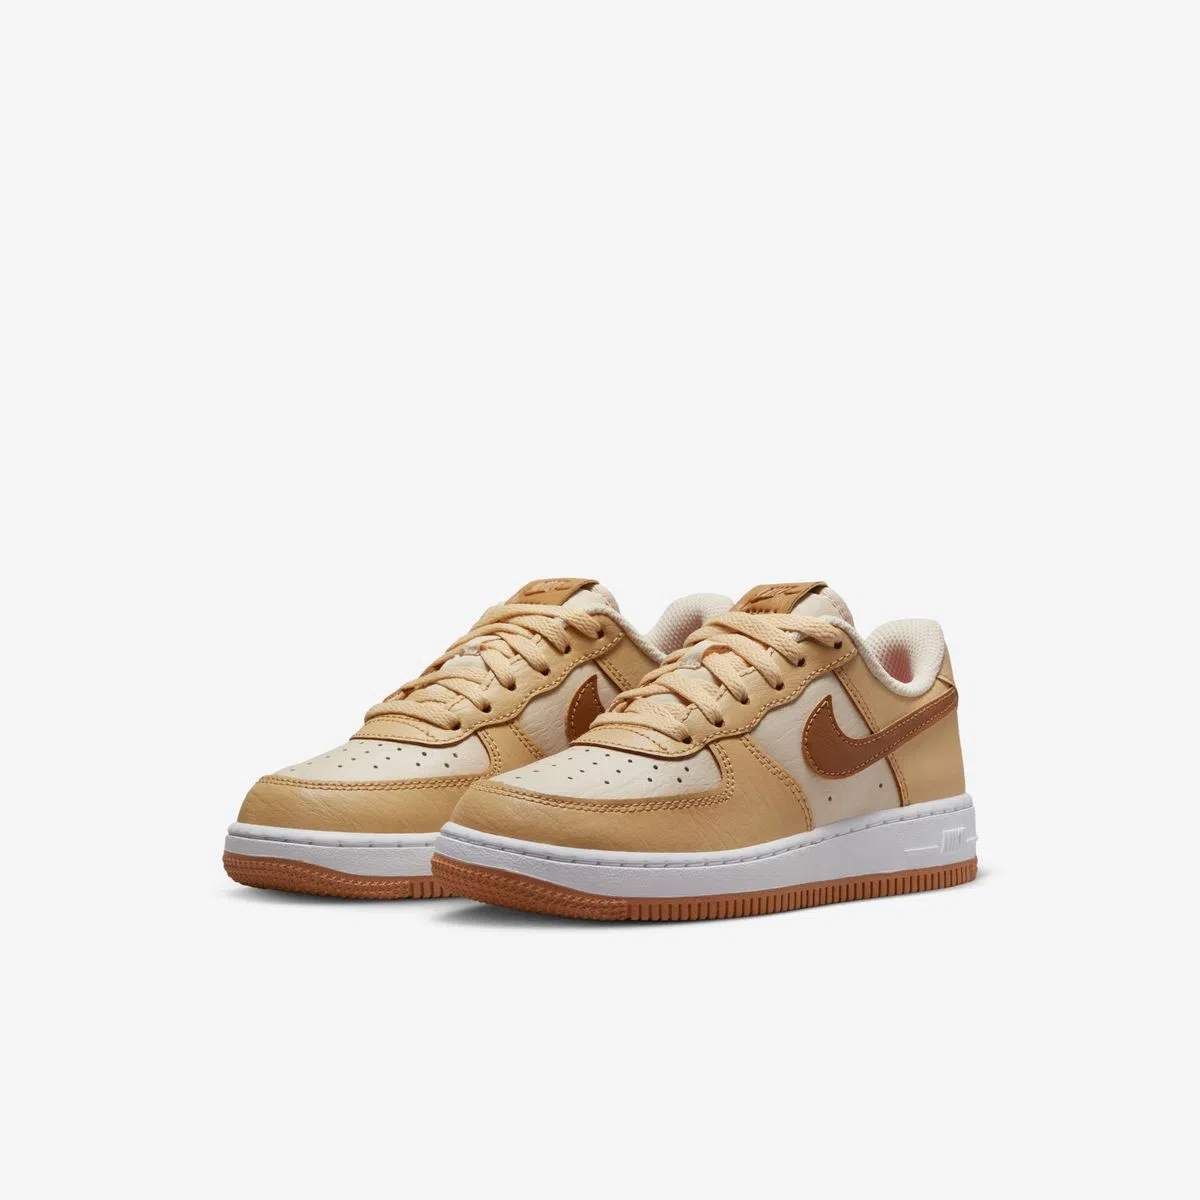
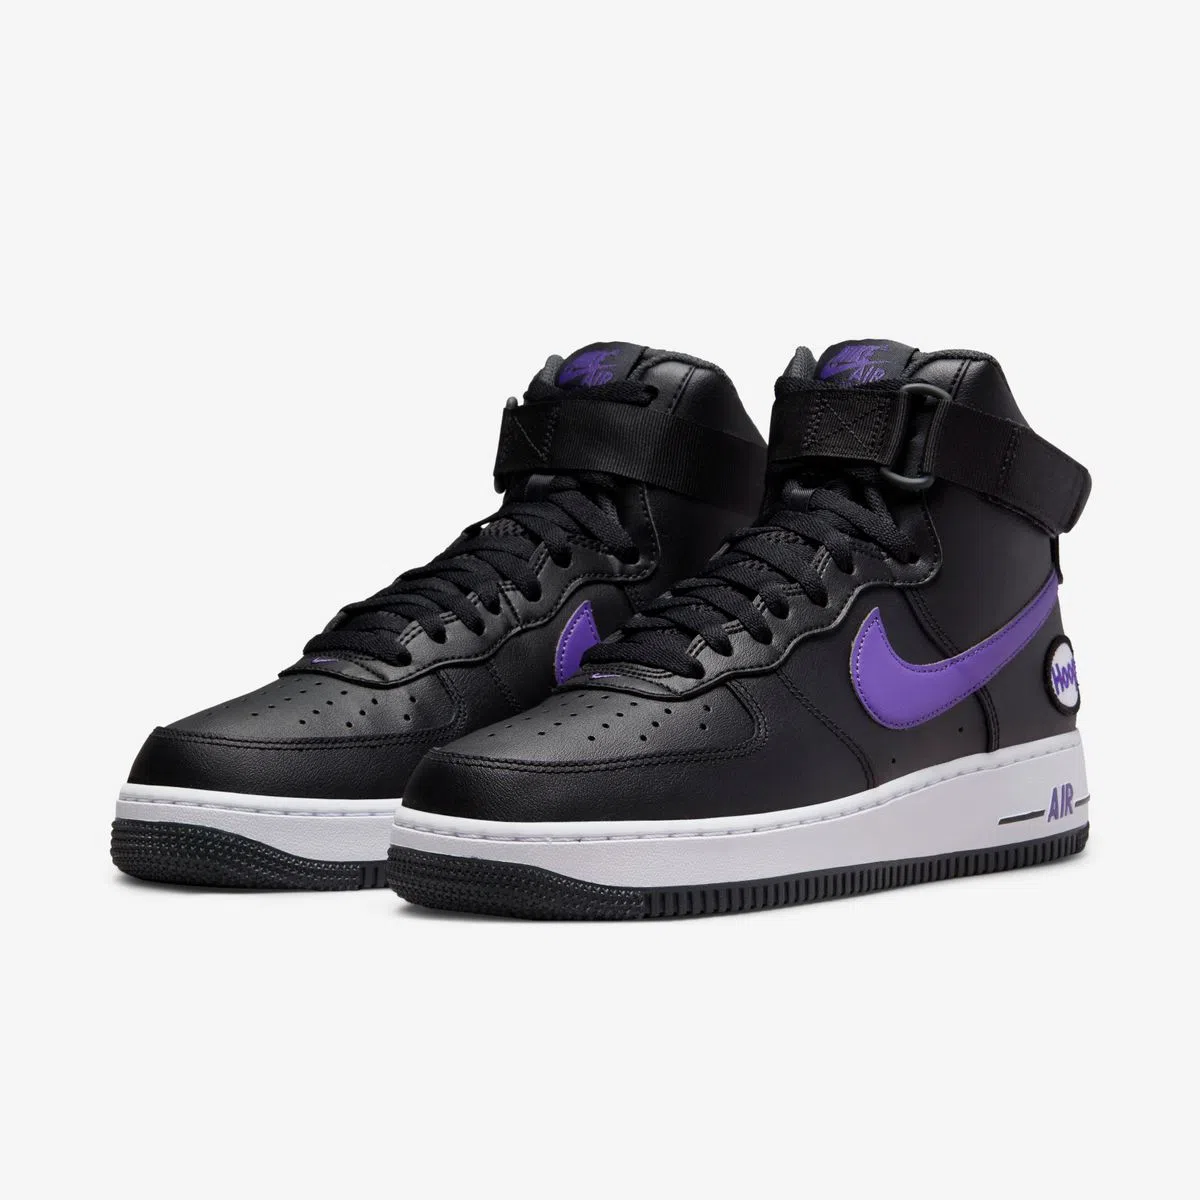
avance

Changed region(s): [[0.0925, 0.2775, 0.925, 0.8017]]

diff --git a/src/asyncmock.js b/src/asyncmock.js
@@ -3,18 +3,73 @@ const misProductos = [
     img2: "https://nikearprod.vtexassets.com/arquivos/ids/546660-1200-1200?v=638162237668230000&width=1200&height=1200&aspect=true", 
     img3: "https://nikearprod.vtexassets.com/arquivos/ids/535516-1200-1200?v=638161447272170000&width=1200&height=1200&aspect=true",
     img4: "https://nikearprod.vtexassets.com/arquivos/ids/540604-1200-1200?v=638162131306200000&width=1200&height=1200&aspect=true",
-    descripcion:"Zapatillas para hombre"},
-    { id: "2", nombre: "Nike Zoom Mercurial Superfly 9 Academy IC", precio: 42.399, img: "../img/botiens2.webp", idCat: "1" },
-    { id: "3", nombre: "Nike Tiempo Legend 9 Academy TF", precio: 42.999, img: "../img/botines3.webp", idCat: "1" },
-    { id: "4", nombre: "Nike Phantom GX Academy TF", precio: 49.999, img: "../img/botines4.webp", idCat: "1" },
-    { id: "5", nombre: "Nike Wildhorse 8", precio: 72.999, img: "../img/running1.webp", idCat: "2" },
-    { id: "6", nombre: "Nike React Pegasus Trail 4", precio: 72.999, img: "../img/running2.webp", idCat: "2" },
-    { id: "7", nombre: "Nike React Pegasus Trail 4", precio: 72.000, img: "../img/running3.webp", idCat: "2" },
-    { id: "8", nombre: "Nike ZoomX Zegama", precio: 89.999, img: "../img/running4.webp", idCat: "2" },
-    { id: "9", nombre: "Nike Air Force 1 '07 LX", precio: 68.999, img: "../img/zapatillamoda1.webp", idCat: "3" },
-    { id: "10", nombre: "Nike Air Force 1 '07 LV8", precio: 37.699, img: "../img/zapatillamoda2.webp", idCat: "3" },
-    { id: "11", nombre: "Nike Air Force 1 Mid '07 LV8", precio: 74.999, img: "../img/zapatillamoda3.webp", idCat: "3" },
-    { id: "12", nombre: "Nike Air Max TW", precio: 91.999, img: "../img/zapatillamoda4.jpg", idCat: "3" },
+    descripcion:"Producto Limitado"},
+    { id: "2", nombre: "Nike Zoom Mercurial Superfly 9 Academy IC", precio: 42.399, img: "../img/botiens2.webp", idCat: "1",
+    img2: "https://nikearprod.vtexassets.com/arquivos/ids/525207-1200-1200?v=638158681451500000&width=1200&height=1200&aspect=true",
+    img3: "https://nikearprod.vtexassets.com/arquivos/ids/523566-1200-1200?v=638158648814770000&width=1200&height=1200&aspect=true",
+    img4: "https://nikearprod.vtexassets.com/arquivos/ids/524391-1200-1200?v=638158663844330000&width=1200&height=1200&aspect=true",
+    descripcion: "Producto Limitado",
+},
+    { id: "3", nombre: "Nike Tiempo Legend 9 Academy TF", precio: 42.999, img: "../img/botines3.webp", idCat: "1",
+    img2: "https://nikearprod.vtexassets.com/arquivos/ids/652402-1200-1200?v=638213107197430000&width=1200&height=1200&aspect=true",
+    img3: "https://nikearprod.vtexassets.com/arquivos/ids/649349-1200-1200?v=638213051020470000&width=1200&height=1200&aspect=true",
+    img4: "https://nikearprod.vtexassets.com/arquivos/ids/650877-1200-1200?v=638213079007570000&width=1200&height=1200&aspect=true",
+    descripcion: "Producto Limitado",
+},
+    { id: "4", nombre: "Nike Phantom GX Academy TF", precio: 49.999, img: "../img/botines4.webp", idCat: "1", 
+    img2: "https://nikearprod.vtexassets.com/arquivos/ids/547037-1200-1200?v=638162243353730000&width=1200&height=1200&aspect=true",
+    img3: "https://nikearprod.vtexassets.com/arquivos/ids/535893-1200-1200?v=638161453925800000&width=1200&height=1200&aspect=true",
+    img4: "https://nikearprod.vtexassets.com/arquivos/ids/540949-1200-1200?v=638162136214130000&width=1200&height=1200&aspect=true",
+    descripcion: "Producto Limitado",
+},
+    { id: "5", nombre: "Nike Wildhorse 8", precio: 72.999, img: "../img/running1.webp", idCat: "2",
+    img2: "https://nikearprod.vtexassets.com/arquivos/ids/634711-1200-1200?v=638210694965900000&width=1200&height=1200&aspect=true",
+    img3: "https://nikearprod.vtexassets.com/arquivos/ids/630347-1200-1200?v=638210616983870000&width=1200&height=1200&aspect=true",
+    img4: "https://nikearprod.vtexassets.com/arquivos/ids/632527-1200-1200?v=638210658854800000&width=1200&height=1200&aspect=true",
+    descripcion: "Producto Limitado",
+},
+    { id: "6", nombre: "Nike React Pegasus Trail 4", precio: 72.999, img: "../img/running2.webp", idCat: "2", 
+    img2: "https://nikearprod.vtexassets.com/arquivos/ids/610891-1200-1200?v=638199594763400000&width=1200&height=1200&aspect=true",
+    img3: "https://nikearprod.vtexassets.com/arquivos/ids/458369-1200-1200?v=638149387533870000&width=1200&height=1200&aspect=true",
+    img4: "https://nikearprod.vtexassets.com/arquivos/ids/606155-1200-1200?v=638199523672300000&width=1200&height=1200&aspect=true",
+    descripcion: "Producto Limitado",
+},
+    { id: "7", nombre: "Nike React Pegasus Trail 4", precio: 72.000, img: "../img/running3.webp", idCat: "2", 
+    img2: "https://nikearprod.vtexassets.com/arquivos/ids/699190-1200-1200?v=638229614948000000&width=1200&height=1200&aspect=true",
+    img3: "https://nikearprod.vtexassets.com/arquivos/ids/698618-1200-1200?v=638229593376400000&width=1200&height=1200&aspect=true",
+    img4: "https://nikearprod.vtexassets.com/arquivos/ids/699189-1200-1200?v=638229614895870000&width=1200&height=1200&aspect=true",
+    descripcion: "Producto Limitado",
+},
+    { id: "8", nombre: "Nike ZoomX Zegama", precio: 89.999, img: "../img/running4.webp", idCat: "2",
+    img2: "https://nikearprod.vtexassets.com/arquivos/ids/705477-1200-1200?v=638233982031770000&width=1200&height=1200&aspect=true",
+    img3: "https://nikearprod.vtexassets.com/arquivos/ids/703018-1200-1200?v=638233939644300000&width=1200&height=1200&aspect=true",
+    img4: "https://nikearprod.vtexassets.com/arquivos/ids/705476-1200-1200?v=638233981990930000&width=1200&height=1200&aspect=true",
+    descripcion: "Producto Limitado",
+},  
+    { id: "9", nombre: "Nike Air Force 1 '07 LX", precio: 68.999, img: "../img/zapatillamoda1.webp", idCat: "3", 
+    img2: "https://nikearprod.vtexassets.com/arquivos/ids/548847-1200-1200?v=638162271692530000&width=1200&height=1200&aspect=true",
+    img3: "https://nikearprod.vtexassets.com/arquivos/ids/537739-1200-1200?v=638161491823030000&width=1200&height=1200&aspect=true",
+    img4: "https://nikearprod.vtexassets.com/arquivos/ids/542780-1200-1200?v=638162165202500000&width=1200&height=1200&aspect=true",
+    descripcion: "Producto Limitado",
+},
+    { id: "10", nombre: "Nike Air Force 1 High", precio: 74.999, img: "../img/zapatillamoda2.webp", idCat: "3", 
+    img2: "https://nikearprod.vtexassets.com/arquivos/ids/170072-1200-1200?v=638088899531170000&width=1200&height=1200&aspect=true",
+    img3: "https://nikearprod.vtexassets.com/arquivos/ids/162199-1200-1200?v=638086378821300000&width=1200&height=1200&aspect=true",
+    img4: "https://nikearprod.vtexassets.com/arquivos/ids/166166-1200-1200?v=638088735883170000&width=1200&height=1200&aspect=true",
+    descripcion: "Producto Limitado",
+},
+    { id: "11", nombre: "Nike Air Force 1 Mid '07 LV8", precio: 74.999, img: "../img/zapatillamoda3.webp", idCat: "3",
+    img2: "https://nikearprod.vtexassets.com/arquivos/ids/612996-1200-1200?v=638200091848430000&width=1200&height=1200&aspect=true",
+    img3: "https://nikearprod.vtexassets.com/arquivos/ids/461657-1200-1200?v=638149433896470000&width=1200&height=1200&aspect=true",
+    img4: "https://nikearprod.vtexassets.com/arquivos/ids/608260-1200-1200?v=638199555206570000&width=1200&height=1200&aspect=true",
+    descripcion: "Producto Limitado",
+},
+    { id: "12", nombre: "Nike Air Max TW", precio: 91.999, img: "../img/zapatillamoda4.jpg", idCat: "3",
+    img2: "https://nikearprod.vtexassets.com/arquivos/ids/635050-1200-1200?v=638210701845800000&width=1200&height=1200&aspect=true",
+    img3: "https://nikearprod.vtexassets.com/arquivos/ids/630690-1200-1200?v=638210621824500000&width=1200&height=1200&aspect=true",
+    img4: "https://nikearprod.vtexassets.com/arquivos/ids/632870-1200-1200?v=638210664256830000&width=1200&height=1200&aspect=true",
+    descripcion: "Producto Limitado",
+},
 ]
 export const getProductos = () => {
     return new Promise((resolve) => {

diff --git a/src/componentes/Erro404/Error.css b/src/componentes/Erro404/Error.css
@@ -1,0 +1,212 @@
+@import url("https://fonts.googleapis.com/css?family=Montserrat:400,600,700");
+@import url("https://fonts.googleapis.com/css?family=Catamaran:400,800");
+.error-container {
+  text-align: center;
+  font-size: 106px;
+  font-family: "Catamaran", sans-serif;
+  font-weight: 800;
+  margin: 70px 15px;
+}
+.error-container > span {
+  display: inline-block;
+  position: relative;
+}
+.error-container > span.four {
+  width: 136px;
+  height: 43px;
+  border-radius: 999px;
+  background: linear-gradient(
+      140deg,
+      rgba(0, 0, 0, 0.1) 0%,
+      rgba(0, 0, 0, 0.07) 43%,
+      transparent 44%,
+      transparent 100%
+    ),
+    linear-gradient(
+      105deg,
+      transparent 0%,
+      transparent 40%,
+      rgba(0, 0, 0, 0.06) 41%,
+      rgba(0, 0, 0, 0.07) 76%,
+      transparent 77%,
+      transparent 100%
+    ),
+    linear-gradient(to right, #d89ca4, #e27b7e);
+}
+.error-container > span.four:before,
+.error-container > span.four:after {
+  content: "";
+  display: block;
+  position: absolute;
+  border-radius: 999px;
+}
+.error-container > span.four:before {
+  width: 43px;
+  height: 156px;
+  left: 60px;
+  bottom: -43px;
+  background: linear-gradient(
+      128deg,
+      rgba(0, 0, 0, 0.1) 0%,
+      rgba(0, 0, 0, 0.07) 40%,
+      transparent 41%,
+      transparent 100%
+    ),
+    linear-gradient(
+      116deg,
+      rgba(0, 0, 0, 0.1) 0%,
+      rgba(0, 0, 0, 0.07) 50%,
+      transparent 51%,
+      transparent 100%
+    ),
+    linear-gradient(to top, #99749d, #b895ab, #cc9aa6, #d7969e, #e0787f);
+}
+.error-container > span.four:after {
+  width: 137px;
+  height: 43px;
+  transform: rotate(-49.5deg);
+  left: -18px;
+  bottom: 36px;
+  background: linear-gradient(
+    to right,
+    #99749d,
+    #b895ab,
+    #cc9aa6,
+    #d7969e,
+    #e0787f
+  );
+}
+
+.error-container > span.zero {
+  vertical-align: text-top;
+  width: 156px;
+  height: 156px;
+  border-radius: 999px;
+  background: linear-gradient(
+      -45deg,
+      transparent 0%,
+      rgba(0, 0, 0, 0.06) 50%,
+      transparent 51%,
+      transparent 100%
+    ),
+    linear-gradient(
+      to top right,
+      #99749d,
+      #99749d,
+      #b895ab,
+      #cc9aa6,
+      #d7969e,
+      #ed8687,
+      #ed8687
+    );
+  overflow: hidden;
+  animation: bgshadow 5s infinite;
+}
+.error-container > span.zero:before {
+  content: "";
+  display: block;
+  position: absolute;
+  transform: rotate(45deg);
+  width: 90px;
+  height: 90px;
+  background-color: transparent;
+  left: 0px;
+  bottom: 0px;
+  background: linear-gradient(
+      95deg,
+      transparent 0%,
+      transparent 8%,
+      rgba(0, 0, 0, 0.07) 9%,
+      transparent 50%,
+      transparent 100%
+    ),
+    linear-gradient(
+      85deg,
+      transparent 0%,
+      transparent 19%,
+      rgba(0, 0, 0, 0.05) 20%,
+      rgba(0, 0, 0, 0.07) 91%,
+      transparent 92%,
+      transparent 100%
+    );
+}
+.error-container > span.zero:after {
+  content: "";
+  display: block;
+  position: absolute;
+  border-radius: 999px;
+  width: 70px;
+  height: 70px;
+  left: 43px;
+  bottom: 43px;
+  background: #fdfaf5;
+  box-shadow: -2px 2px 2px 0px rgba(0, 0, 0, 0.1);
+}
+
+.screen-reader-text {
+position: absolute;
+top: -9999em;
+left: -9999em;
+}
+
+@keyframes bgshadow {
+0% {
+    box-shadow: inset -160px 160px 0px 5px rgba(0, 0, 0, 0.4);
+}
+45% {
+    box-shadow: inset 0px 0px 0px 0px rgba(0, 0, 0, 0.1);
+}
+55% {
+    box-shadow: inset 0px 0px 0px 0px rgba(0, 0, 0, 0.1);
+}
+100% {
+    box-shadow: inset 160px -160px 0px 5px rgba(0, 0, 0, 0.4);
+  }
+}
+
+/* demo stuff */
+* {
+  -webkit-box-sizing: border-box;
+  -moz-box-sizing: border-box;
+  box-sizing: border-box;
+}
+body {
+  background-color: #fdfaf5;
+  margin-bottom: 50px;
+}
+html,
+button,
+input,
+select,
+textarea {
+  font-family: "Montserrat", Helvetica, sans-serif;
+  color: #bbb;
+}
+h1 {
+  text-align: center;
+  margin: 30px 15px;
+}
+.zoom-area {
+  max-width: 490px;
+  margin: 30px auto 30px;
+  font-size: 19px;
+  text-align: center;
+}
+.link-container {
+  text-align: center;
+}
+a.more-link {
+  text-transform: uppercase;
+  font-size: 13px;
+  background-color: #de7e85;
+  padding: 10px 15px;
+  border-radius: 0;
+  color: #fff;
+  display: inline-block;
+  margin-right: 5px;
+  margin-bottom: 5px;
+  line-height: 1.5;
+  text-decoration: none;
+  margin-top: 50px;
+  letter-spacing: 1px;
+}

diff --git a/src/App.jsx b/src/App.jsx
@@ -4,6 +4,7 @@ import ItemListContainer from './componentes/itemListCointainer/itemListContaine
 import ItemCount from './componentes/ItemCount/ItemCount';
 import {Routes, Route, BrowserRouter} from "react-router-dom"
 import ItemDetailContainer from './componentes/ItemDetailContainer/ItemDetailContainer';
+import Error from './componentes/Erro404/Error';
 
 function App() {
   return (
@@ -15,6 +16,8 @@ function App() {
             <Route path='' element={<ItemListContainer greeting={"Bienvenidos"}/>}></Route>
             <Route path='/categoria/:idCategoria' element={<ItemListContainer greeting={"Bienvenidos"}/>}></Route>
             <Route path='/item/:idItem' element={<ItemDetailContainer/>}></Route>
+            <Route path='*' element={<Error/>}></Route>
+            
           </Routes>
       </div>
       </BrowserRouter>

diff --git a/src/componentes/Erro404/Error.jsx b/src/componentes/Erro404/Error.jsx
@@ -1,0 +1,21 @@
+import React from 'react'
+import "./Error.css"
+import { Link } from 'react-router-dom'
+
+const Error = () => {
+return (
+    <div>
+<h1>Pgina no encontrada</h1>
+<section class="error-container">
+<span class="four"><span class="screen-reader-text">4</span></span>
+<span class="zero"><span class="screen-reader-text">0</span></span>
+<span class="four"><span class="screen-reader-text">4</span></span>
+</section>
+<div class="link-container">
+<Link to="/" class="more-link">Regresar a la pagina principal</Link>
+</div>
+    </div>
+)
+}
+
+export default Error

diff --git a/src/componentes/ItemDetail/ItemDetail.jsx b/src/componentes/ItemDetail/ItemDetail.jsx
@@ -20,9 +20,9 @@ return (
         <img src={img4} alt="" />
     </div>
     <div className="datos">
-        <h2>Nombre: {nombre} </h2>
-        <h3>Precio: {precio} </h3>
-        <h1>Descripcion: {descripcion}</h1>
+        <h2>{nombre} </h2>
+        <h3>{precio} </h3>
+        <h1>{descripcion}</h1>
     </div>
     </div>
 );

diff --git a/src/componentes/NavBar/estilos.css b/src/componentes/NavBar/estilos.css
@@ -3,7 +3,7 @@
     display: flex;
     flex-direction: row;
     justify-content: space-between;
-    background-color: #5b78a7;
+    background-color: #373737;
     align-items: center;
 }
 .menu ul {

diff --git a/src/componentes/ItemDetail/ItemDetail.css b/src/componentes/ItemDetail/ItemDetail.css
@@ -6,7 +6,8 @@
 
 .foto{
     display: flex;
-    
+    flex-direction: row;
+    max-width: 800px;
 }
 
 .datos{
